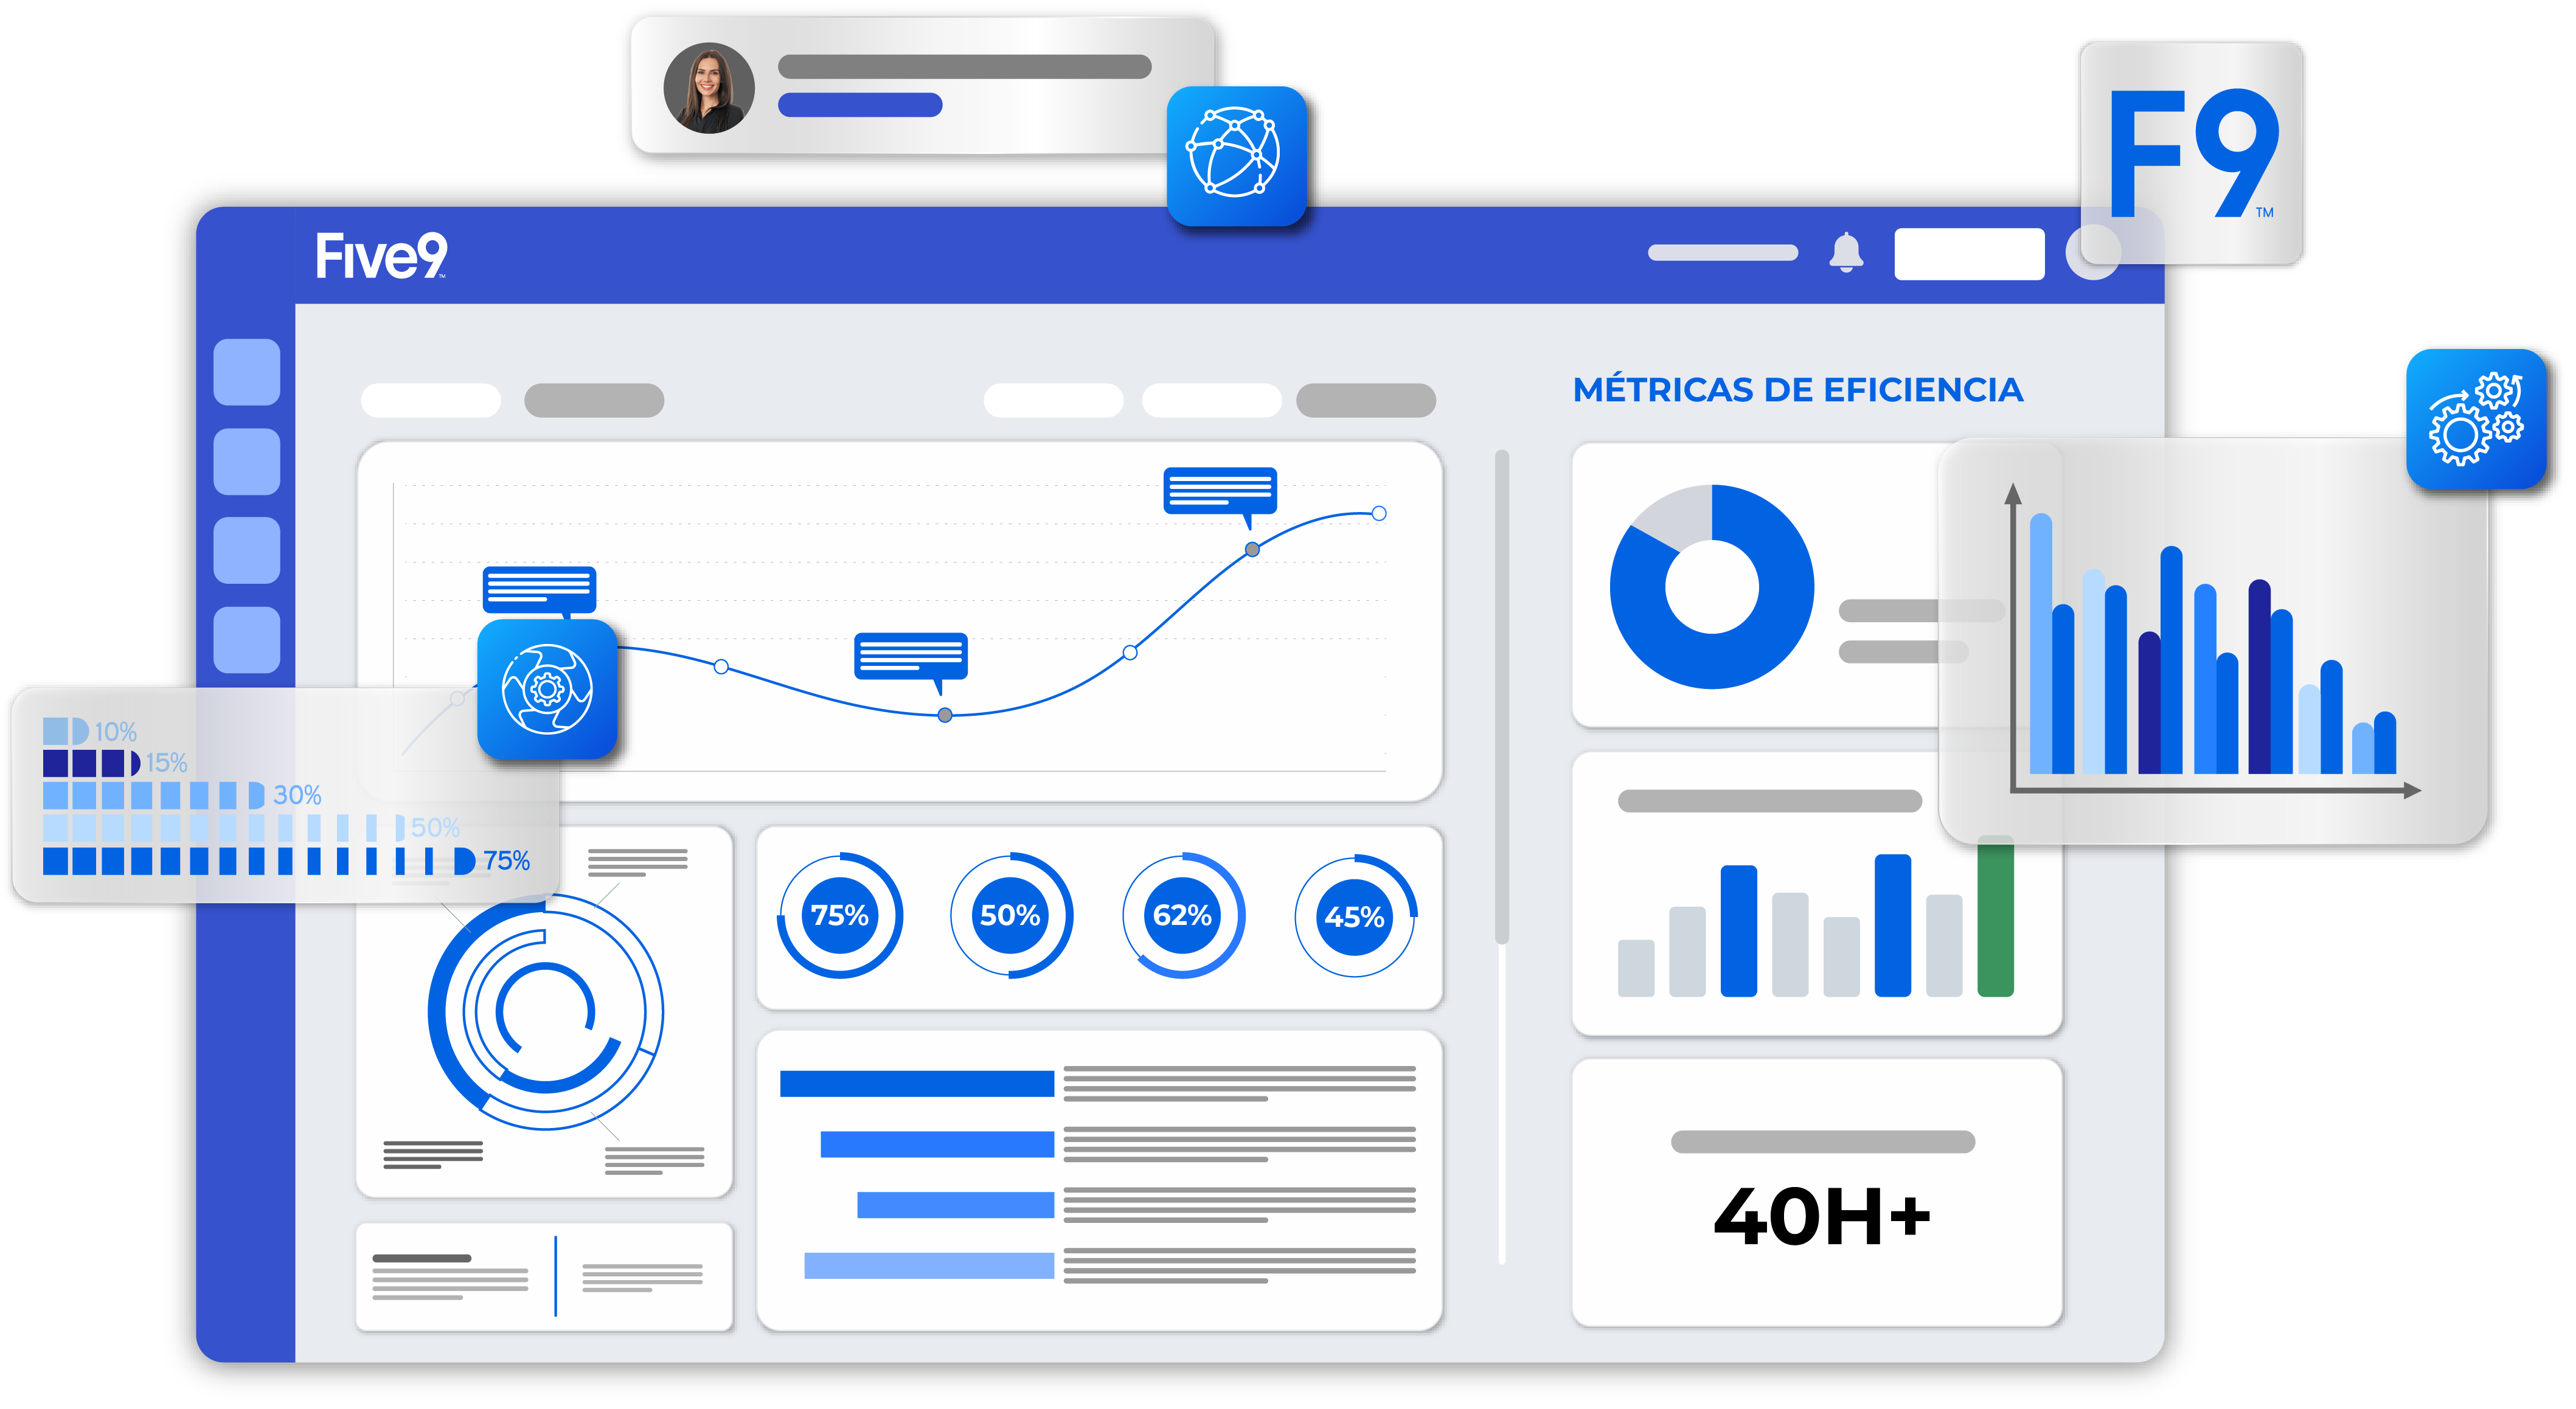
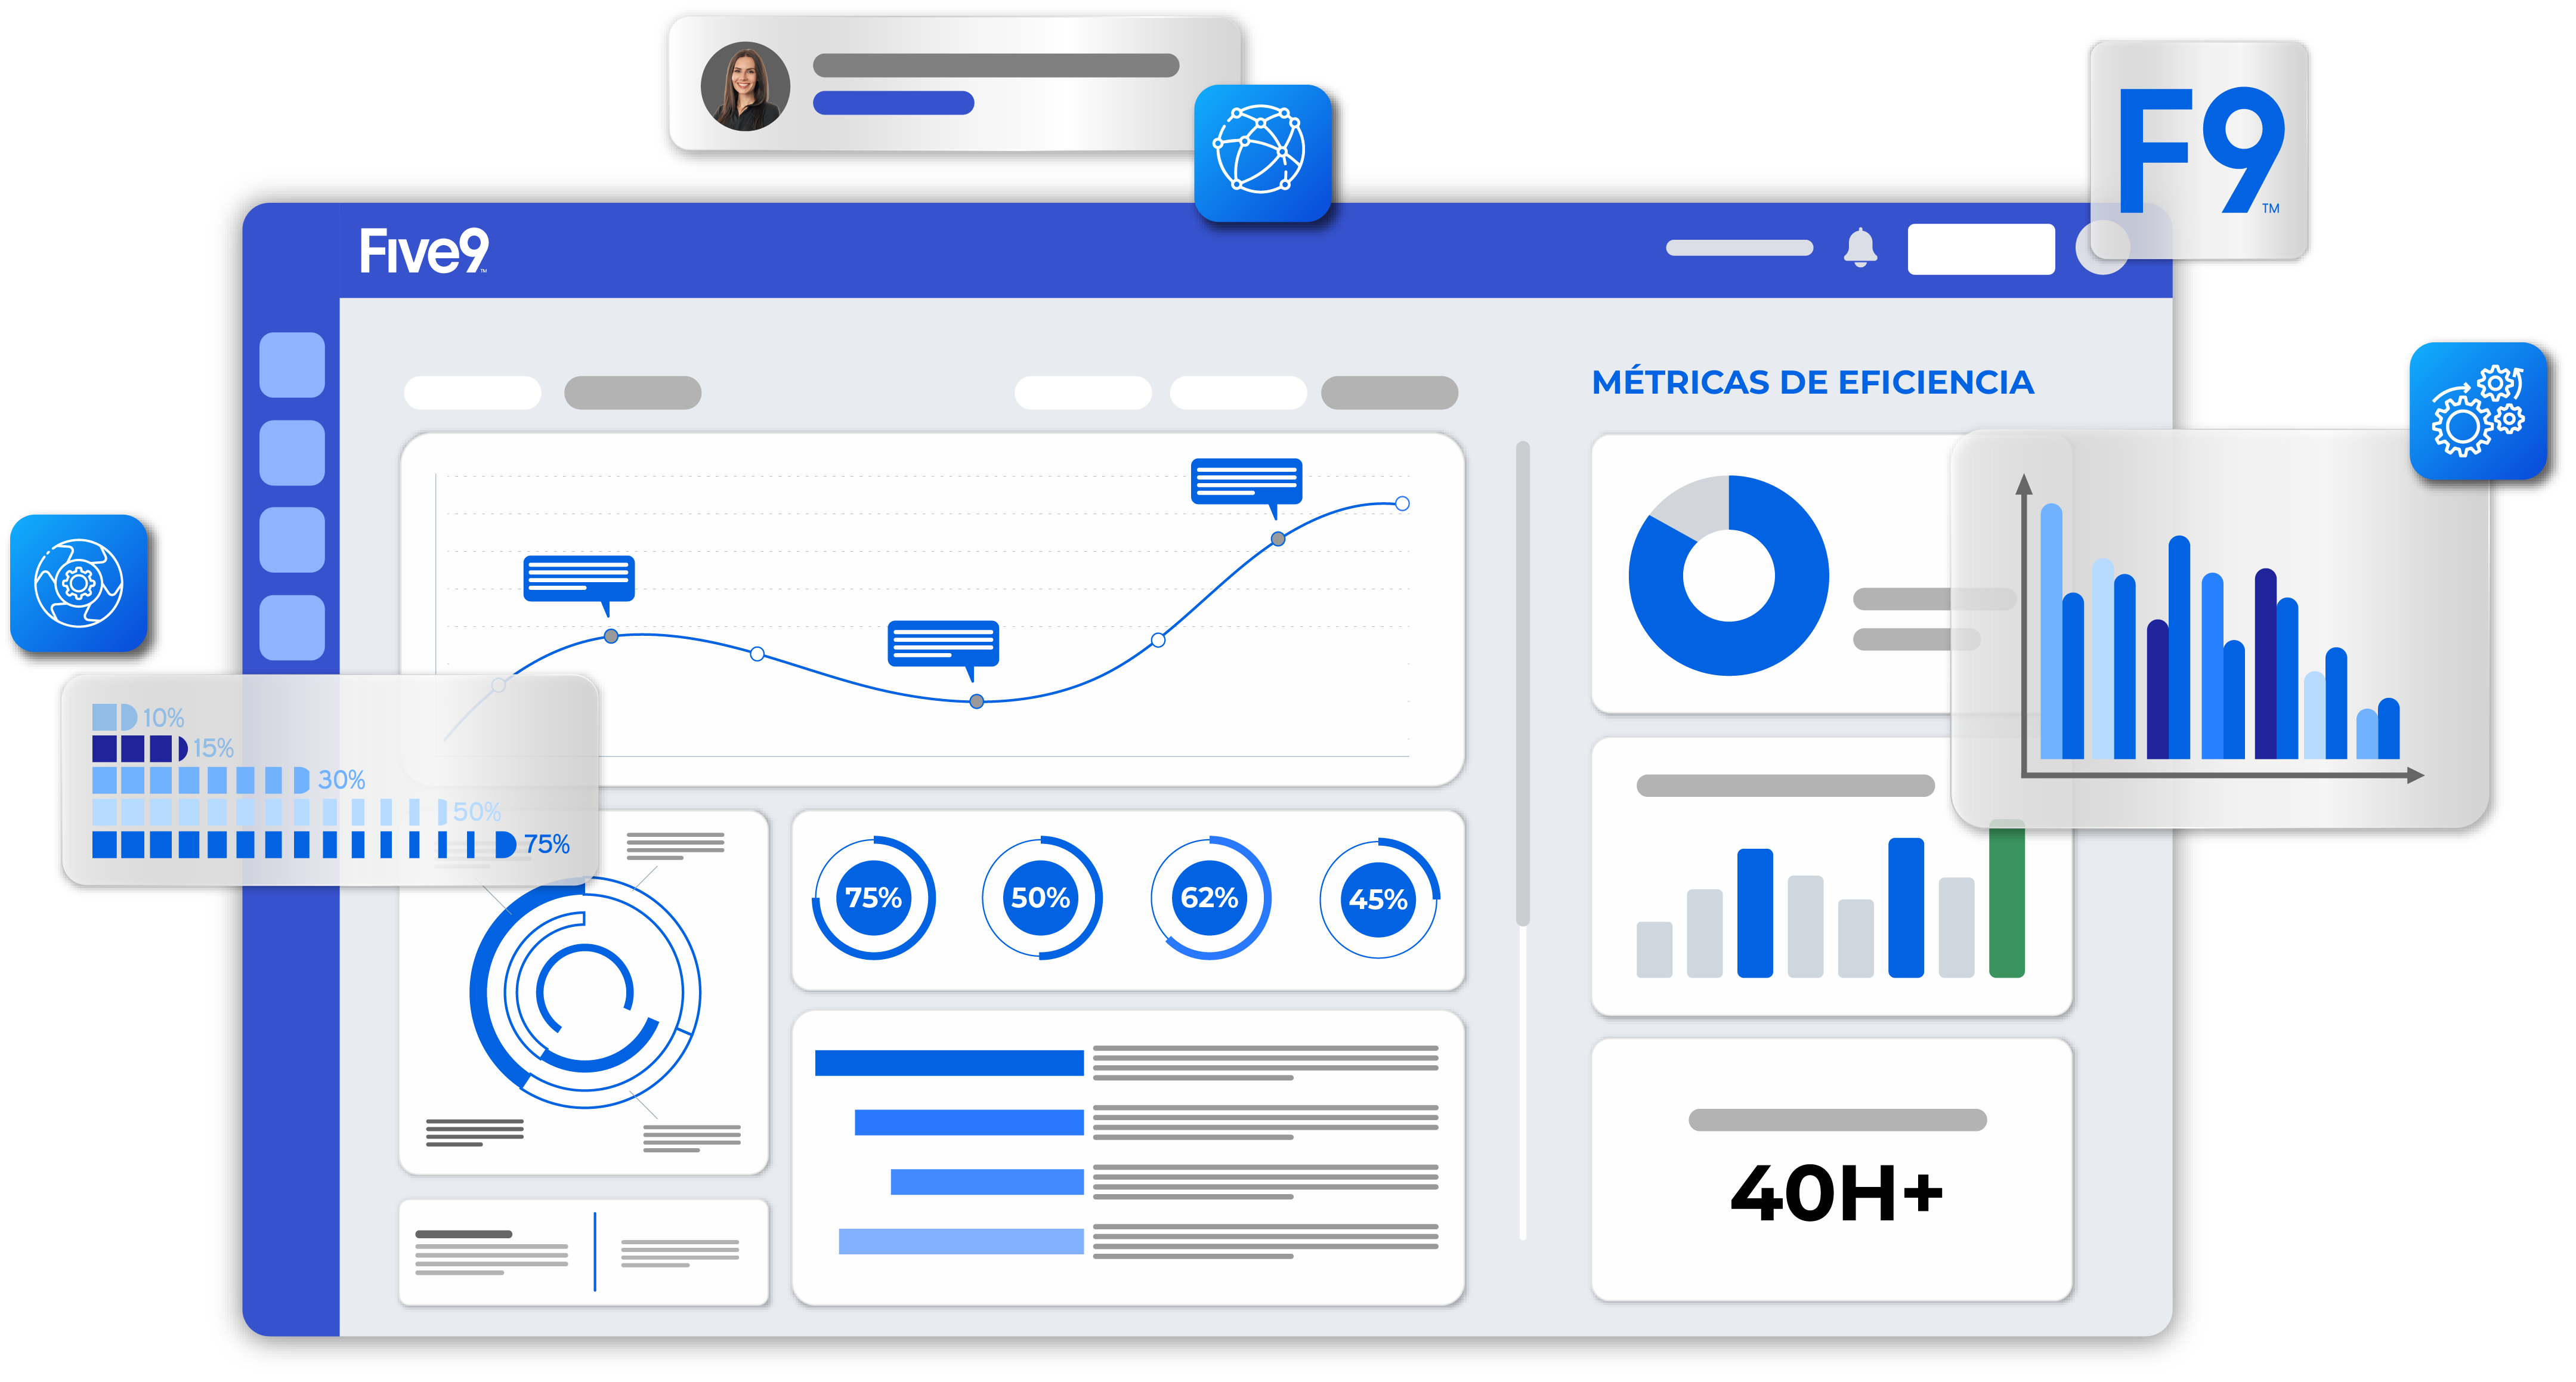
first commit

diff --git a/Rediseño secciones partner/five9-landing-page.html b/Rediseño secciones partner/five9-landing-page.html
@@ -377,7 +377,7 @@
          HERO SECTION
          ========================================================================== */
       .hero {
-        padding-top: 80px !important;
+        padding-top: 50px !important;
         background: linear-gradient(
           rgba(255, 255, 255, 0.9),
           rgba(255, 255, 255, 0.95)
@@ -451,21 +451,20 @@
       .hero-mockup {
         width: 100%;
         height: auto;
-        margin-bottom: -22%;
+        margin: 30px 0 -15% 0;
       }
       .hero-mockup img {
         width: 100%;
-        transform: scale(1.2);
         border-radius: var(--radius-lg) var(--radius-lg) 0 0;
         box-shadow:
           var(--shadow-xl),
           0 0 0 1px rgba(0, 0, 0, 0.04);
         display: block;
-        mask-image: linear-gradient(to bottom, black 25%, transparent 60%);
+        mask-image: linear-gradient(to bottom, black 30%, transparent 70%);
         -webkit-mask-image: linear-gradient(
           to bottom,
-          black 25%,
-          transparent 60%
+          black 30%,
+          transparent 70%
         );
       }
 
@@ -1905,7 +1904,8 @@
         <div class="hero-content">
           <span class="hero-eyebrow">Five9 Cloud Contact Center Platform</span>
           <h1>
-            La plataforma inteligente que transforma tu Contact Center en una
+            Five9: La plataforma inteligente que transforma tu Contact Center en
+            una
             <span class="italic">
               operación eficiente, automatizada y escalable.</span
             >
@@ -1935,7 +1935,7 @@
 
         <div class="hero-mockup">
           <img
-            src="https://github.com/Lucaro99/Partners-ICQ24/blob/main/Assets/Muckup%20(2).png?raw=true"
+            src="https://github.com/Lucaro99/Partners-ICQ24/blob/main/Assets/Hero_Five9.png?raw=true"
             alt="Mockup Rediseño ICQ24 2"
             style="display: block; max-width: 100%; height: auto"
           />
@@ -1972,7 +1972,9 @@
           </div>
           <div class="reto-card">
             <div class="reto-num">03</div>
-            <h3>Costos operativos crecientes.</h3>
+            <h3>
+              Costos operativos crecientes y falta de métricas accionables.
+            </h3>
           </div>
           <div class="reto-card">
             <div class="reto-num">04</div>
@@ -1985,10 +1987,6 @@
           <div class="reto-card">
             <div class="reto-num">06</div>
             <h3>Baja automatización y exceso de tareas repetitivas.</h3>
-          </div>
-          <div class="reto-card">
-            <div class="reto-num">07</div>
-            <h3>Falta de métricas accionables en tiempo real.</h3>
           </div>
         </div>
       </div>